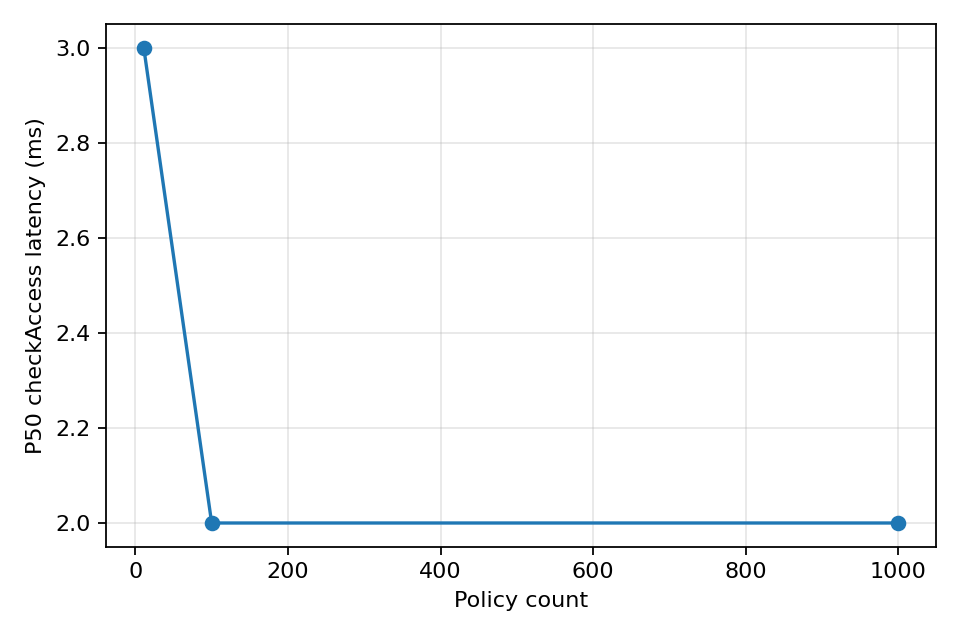
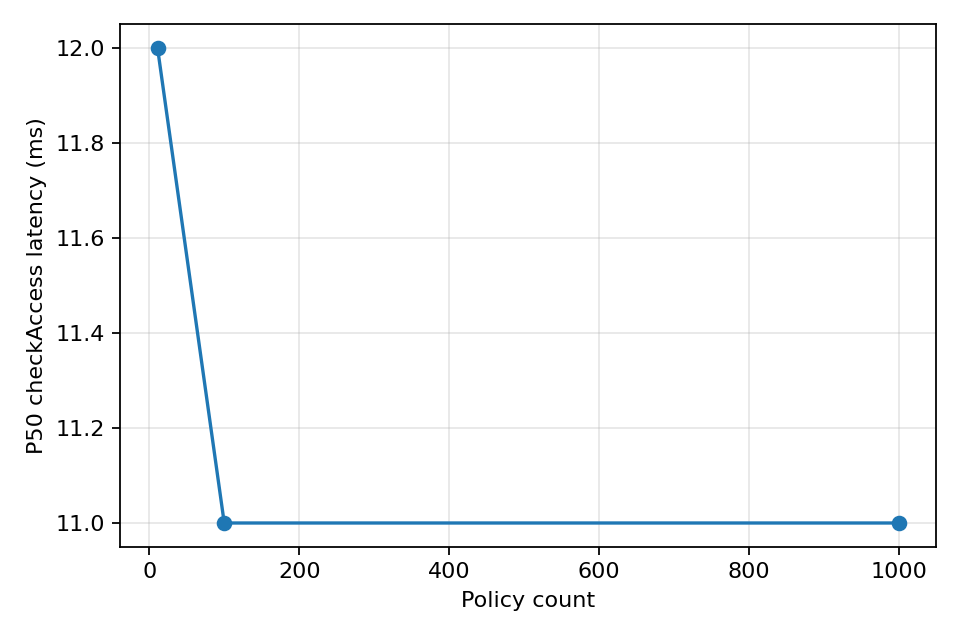
chore(figures): refresh generated experiment plots

diff --git a/claimguard-peg/figures/e2_latency_table.tex b/claimguard-peg/figures/e2_latency_table.tex
@@ -6,12 +6,12 @@
 \toprule
 \textbf{Metric} & \textbf{Local (ms)} & \textbf{Sepolia (ms)} & \textbf{Overhead} \\
 \midrule
-P50 & 15.99 & 224.67 & 1305.1\% \\
-P90 & 28.53 & 246.81 & 765.1\% \\
-P99 & 34.04 & 515.25 & 1413.7\% \\
-Average & 18.31 & 233.65 & 1176.1\% \\
-Min & 13.84 & 214.22 & 1447.8\% \\
-Max & 34.04 & 515.25 & 1413.7\% \\
+P50 & 21.55 & 248.80 & 1054.5\% \\
+P90 & 31.58 & 343.16 & 986.6\% \\
+P99 & 158.60 & 560.37 & 253.3\% \\
+Average & 25.20 & 276.60 & 997.6\% \\
+Min & 18.13 & 241.81 & 1233.8\% \\
+Max & 158.60 & 560.37 & 253.3\% \\
 \bottomrule
 \end{tabular}
 \end{table}

diff --git a/claimguard-peg/figures/e2_policy_table.tex b/claimguard-peg/figures/e2_policy_table.tex
@@ -6,10 +6,10 @@
 \toprule
 \textbf{Metric} & \textbf{Local (s)} & \textbf{Sepolia (s)} & \textbf{Overhead} \\
 \midrule
-Average & 0.02 & 24.77 & 123750.0\% \\
-Median & 0.02 & 14.61 & 72950.0\% \\
-Min & 0.01 & 9.98 & 99700.0\% \\
-Max & 0.03 & 89.43 & 298000.0\% \\
+Average & 0.12 & 12.70 & 10483.3\% \\
+Median & 0.07 & 10.96 & 15557.1\% \\
+Min & 0.06 & 10.30 & 17066.7\% \\
+Max & 0.51 & 19.54 & 3731.4\% \\
 \bottomrule
 \end{tabular}
 \end{table}

diff --git a/claimguard-peg/figures/e2_throughput_table.tex b/claimguard-peg/figures/e2_throughput_table.tex
@@ -6,9 +6,9 @@
 \toprule
 \textbf{Concurrency} & \textbf{Local (req/s)} & \textbf{Sepolia (req/s)} & \textbf{Reduction} \\
 \midrule
-10 & 569.81 & 142.16 & 75.1\% \\
-50 & 998.76 & 315.07 & 68.5\% \\
-100 & 782.64 & 373.45 & 52.3\% \\
+10 & 78.24 & 0.00 & 100.0\% \\
+50 & 30.63 & 0.00 & 100.0\% \\
+100 & 46.66 & 0.19 & 99.6\% \\
 \bottomrule
 \end{tabular}
 \end{table}
